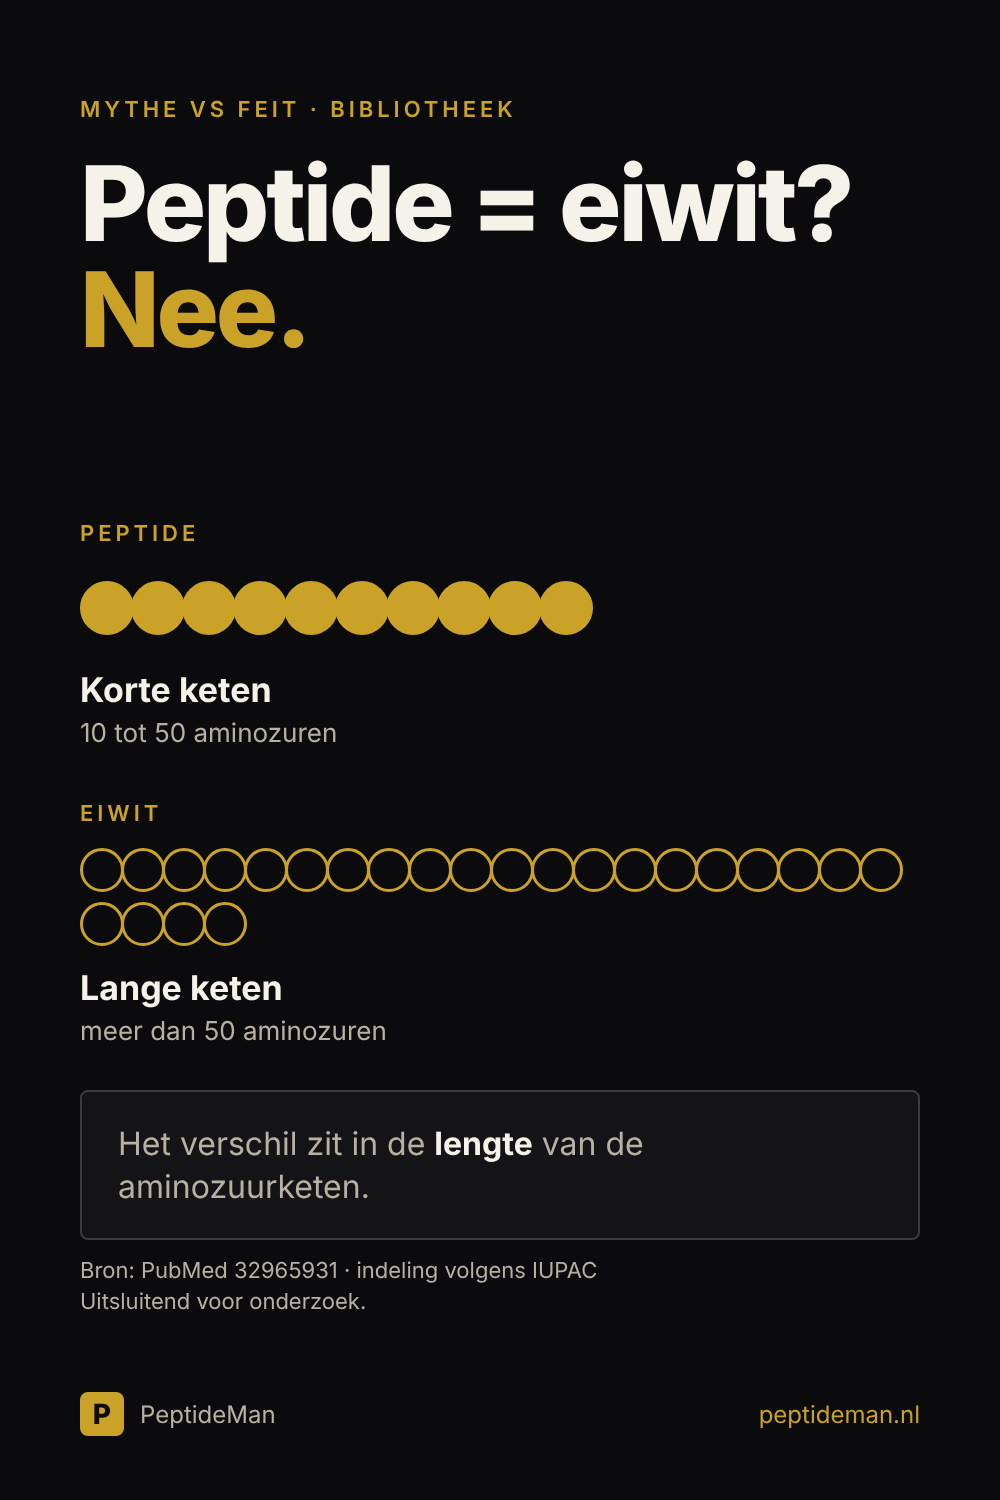
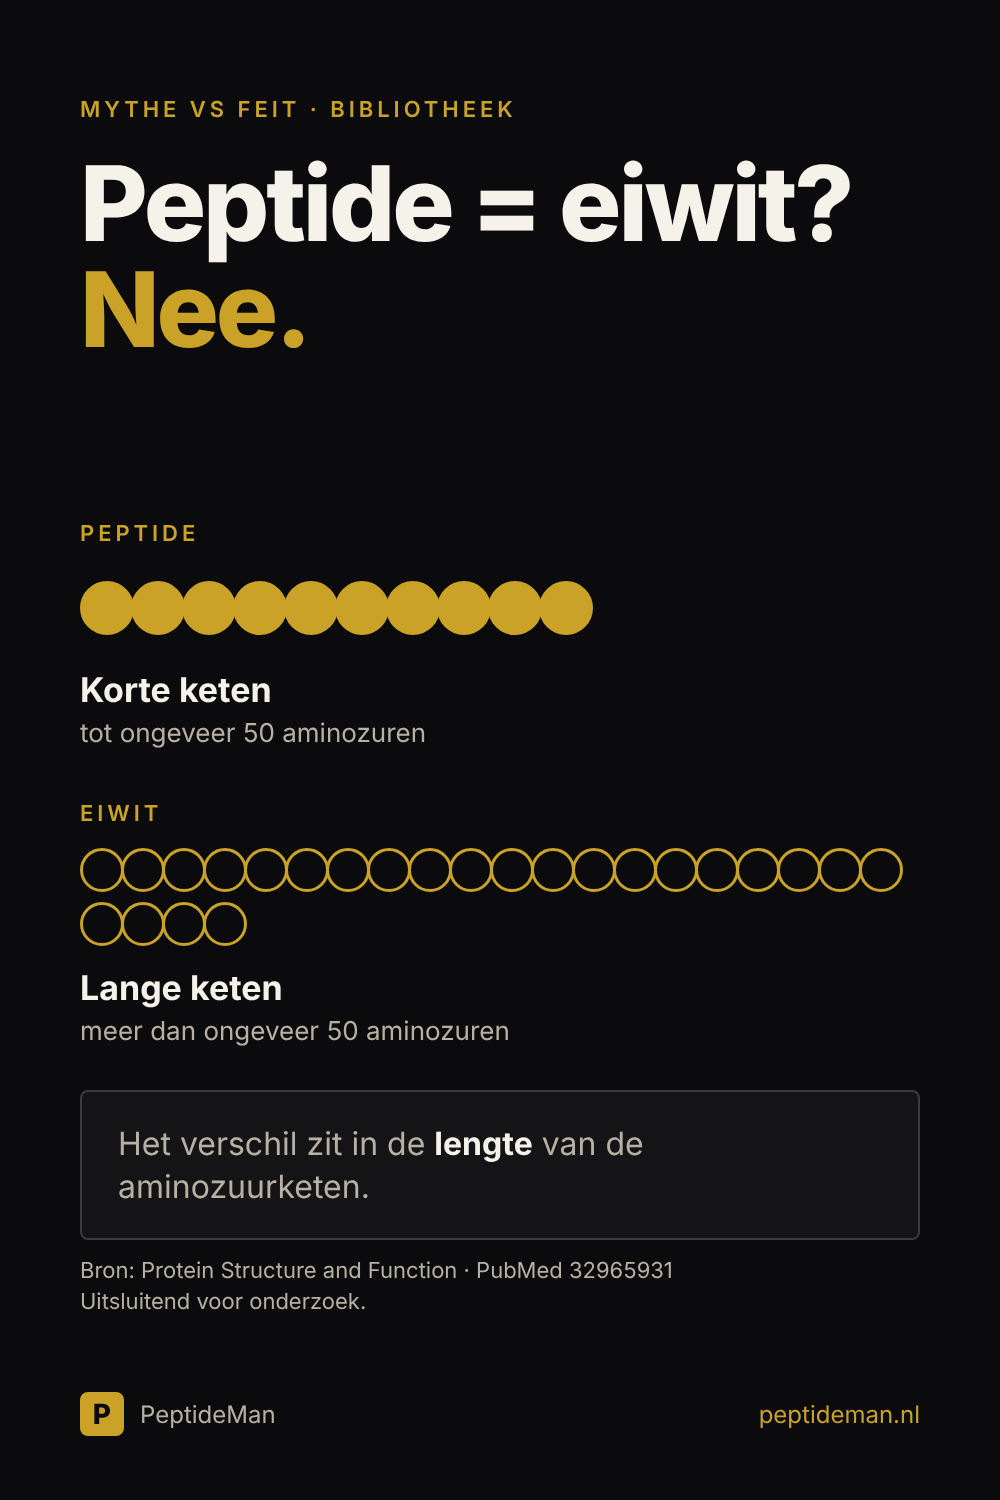
Weekplan w46: posts herzien na eerste toetsronde, beelden opnieuw gerenderd
Claude-Session: https://claude.ai/code/session_01X3HvVKDakskuMJBigugZac

diff --git a/posts/media/2026-11-10-weetje-insuline.html b/posts/media/2026-11-10-weetje-insuline.html
@@ -13,19 +13,18 @@ h1{position:absolute;top:410px;left:80px;right:80px;font-size:210px;line-height:
 .chain::before{content:"";position:absolute;left:30px;right:30px;top:50%;height:3px;background:var(--border)}
 .aa{position:relative;width:64px;height:64px;border-radius:50%;border:3px solid var(--gold);background:var(--bg)}
 .aa.f{background:var(--gold)}
-.big{position:absolute;top:1060px;left:80px;right:80px;background:var(--surface);border:2px solid var(--border);border-radius:8px;padding:30px 36px;font-size:34px;line-height:1.35}
+.big{position:absolute;top:1030px;left:80px;right:80px;background:var(--surface);border:2px solid var(--border);border-radius:8px;padding:30px 36px;font-size:34px;line-height:1.35}
 .big b{color:var(--light)}
-.src{position:absolute;left:80px;right:80px;top:1285px;font-size:21px;line-height:1.4}
+.src{position:absolute;left:80px;right:80px;top:1290px;font-size:26px;line-height:1.4}
 .foot{position:absolute;left:80px;right:80px;bottom:64px;display:flex;align-items:center;gap:16px;font-size:24px}
 .logo{width:44px;height:44px;border-radius:8px;background:var(--gold);color:var(--bg);font-weight:800;font-size:28px;display:flex;align-items:center;justify-content:center}
 .foot .url{margin-left:auto;color:var(--gold)}
 </style></head><body>
 <div class="tag">Weetje · Bibliotheek</div>
-<div class="q">Wat was het eerste eiwit waarvan de volgorde werd opgehelderd?</div>
+<div class="q">Wat was het eerste eiwit met een bekende aminozuurvolgorde?</div>
 <h1>Insuline</h1>
-<div class="lead">Fred Sanger leidde de aminozuur&shy;volgorde af.</div>
-<div class="chain"><div class="aa"></div><div class="aa"></div><div class="aa"></div><div class="aa"></div><div class="aa"></div><div class="aa"></div><div class="aa"></div><div class="aa f"></div></div>
-<div class="big">Hij ontwikkelde nieuwe technieken en deed dit uit meerdere hydrolysaten. In <b>1958</b> kreeg hij zijn eerste Nobelprijs voor Scheikunde.</div>
-<div class="src">Bron: Flier JS, Kahn CR. Mol Metab 2021 · PubMed 33610859 · overzichtsartikel<br>Uitsluitend voor onderzoek.</div>
+<div class="lead">Fred Sanger leidde de volgorde af.</div>
+<div class="big">Voor dit werk kreeg Sanger in <b>1958</b> zijn eerste Nobelprijs voor Scheikunde.</div>
+<div class="src">Bron: Flier &amp; Kahn, Mol Metab 2021 · PubMed 33610859<br>Uitsluitend voor onderzoek.</div>
 <div class="foot"><div class="logo">P</div>PeptideMan<span class="url">peptideman.nl</span></div>
 </body></html>

diff --git a/posts/media/2026-11-12-labwerk-lcms.html b/posts/media/2026-11-12-labwerk-lcms.html
@@ -25,14 +25,14 @@ h1{position:absolute;top:150px;left:80px;right:80px;font-size:150px;line-height:
 </style></head><body>
 <div class="tag">Labwerk · Bibliotheek</div>
 <h1>LC-MS</h1>
-<div class="lead">De <span>massa</span> bevestigt de identiteit</div>
+<div class="lead">De <span>massa</span> controleert de identiteit</div>
 <div class="cards">
 <div class="card gold"><div class="k">LC-MS</div><div class="n">Massa</div><div class="d">Welke stof is het?</div>
 <svg viewBox="0 0 300 110" preserveAspectRatio="none"><g stroke="#C9A227" stroke-width="6" stroke-linecap="round"><line x1="30" y1="105" x2="30" y2="70"/><line x1="90" y1="105" x2="90" y2="55"/><line x1="150" y1="105" x2="150" y2="8"/><line x1="210" y1="105" x2="210" y2="60"/><line x1="270" y1="105" x2="270" y2="78"/></g></svg></div>
-<div class="card"><div class="k">HPLC</div><div class="n">Zuiver</div><div class="d">Hoeveel is het?</div>
+<div class="card"><div class="k">HPLC</div><div class="n">Zuiver?</div><div class="d">Wat zit er nog meer in?</div>
 <svg viewBox="0 0 300 110" preserveAspectRatio="none"><path d="M0 105 L60 105 Q80 105 90 95 Q100 105 120 105 L150 105 Q170 105 180 10 Q190 105 210 105 L300 105" fill="none" stroke="#B7B1A3" stroke-width="5" stroke-linejoin="round"/></svg></div>
 </div>
-<div class="big">Een methodehoofdstuk beschrijft <b>LC-MS</b> en <b>MALDI-TOF-MS</b> om identiteit en zuiverheid van synthetische peptiden te controleren.</div>
+<div class="big">Een methodehoofdstuk beschrijft <b>LC-MS</b> om synthetische peptiden te controleren.</div>
 <div class="src">Bron: Prabhala BK et al., Methods Mol Biol 2015;1348 · PubMed 26424265<br>Uitsluitend voor onderzoek.</div>
 <div class="foot"><div class="logo">P</div>PeptideMan<span class="url">peptideman.nl</span></div>
 </body></html>

diff --git a/posts/media/2026-11-11-mythe-peptide-eiwit.html b/posts/media/2026-11-11-mythe-peptide-eiwit.html
@@ -31,14 +31,14 @@ h1 span{color:var(--gold)}
 <div class="row r1">
 <div class="lab">Peptide</div>
 <div class="chain"><div class="aa f"></div><div class="aa f"></div><div class="aa f"></div><div class="aa f"></div><div class="aa f"></div><div class="aa f"></div><div class="aa f"></div><div class="aa f"></div><div class="aa f"></div><div class="aa f"></div></div>
-<div class="cap">Korte keten<small>10 tot 50 aminozuren</small></div>
+<div class="cap">Korte keten<small>tot ongeveer 50 aminozuren</small></div>
 </div>
 <div class="row r2">
 <div class="lab">Eiwit</div>
 <div class="chain long"><div class="aa"></div><div class="aa"></div><div class="aa"></div><div class="aa"></div><div class="aa"></div><div class="aa"></div><div class="aa"></div><div class="aa"></div><div class="aa"></div><div class="aa"></div><div class="aa"></div><div class="aa"></div><div class="aa"></div><div class="aa"></div><div class="aa"></div><div class="aa"></div><div class="aa"></div><div class="aa"></div><div class="aa"></div><div class="aa"></div><div class="aa"></div><div class="aa"></div><div class="aa"></div><div class="aa"></div></div>
-<div class="cap">Lange keten<small>meer dan 50 aminozuren</small></div>
+<div class="cap">Lange keten<small>meer dan ongeveer 50 aminozuren</small></div>
 </div>
 <div class="big">Het verschil zit in de <b>lengte</b> van de aminozuurketen.</div>
-<div class="src">Bron: PubMed 32965931 · indeling volgens IUPAC<br>Uitsluitend voor onderzoek.</div>
+<div class="src">Bron: Protein Structure and Function · PubMed 32965931<br>Uitsluitend voor onderzoek.</div>
 <div class="foot"><div class="logo">P</div>PeptideMan<span class="url">peptideman.nl</span></div>
 </body></html>

diff --git a/posts/media/2026-11-09-labwerk-hplc.html b/posts/media/2026-11-09-labwerk-hplc.html
@@ -21,7 +21,7 @@ h1 span{color:var(--gold)}
 </style></head><body>
 <div class="tag">Labwerk · Bibliotheek</div>
 <h1>Hoe werkt een <span>HPLC-test?</span></h1>
-<div class="lead">Elke stof krijgt een <span>eigen piek</span></div>
+<div class="lead">Stoffen komen als <span>aparte pieken</span> uit de kolom</div>
 <div class="chart">
 <svg viewBox="0 0 836 496" xmlns="http://www.w3.org/2000/svg" font-family="system-ui,-apple-system,'Segoe UI',Roboto,Helvetica,Arial,sans-serif">
 <line x1="50" y1="400" x2="800" y2="400" stroke="#3A3A42" stroke-width="3"/>
@@ -30,11 +30,11 @@ h1 span{color:var(--gold)}
 <path d="M430 400 C470 400 480 110 520 110 C560 110 570 400 610 400 Z" fill="#C9A227" fill-opacity=".25"/>
 <path d="M430 400 C470 400 480 110 520 110 C560 110 570 400 610 400" fill="none" stroke="#C9A227" stroke-width="6" stroke-linejoin="round"/>
 <text x="520" y="78" text-anchor="middle" font-size="30" font-weight="700" fill="#C9A227">hoofdpiek</text>
-<text x="335" y="322" text-anchor="middle" font-size="24" fill="#B7B1A3">andere</text>
+<text x="335" y="322" text-anchor="middle" font-size="24" fill="#B7B1A3">andere stoffen</text>
 <text x="800" y="450" text-anchor="end" font-size="26" fill="#B7B1A3">tijd →</text>
 </svg>
 </div>
-<div class="big">Reversed-phase HPLC: <b>snelle techniek</b> om de zuiverheid van synthetische peptiden te beoordelen.</div>
+<div class="big">De <b>grote piek</b> is het peptide. Kleine pieken zijn <b>andere stoffen</b>.</div>
 <div class="src">Bron: Moore GJ, Life Sci 1982;30(12) · PubMed 7070207<br>Uitsluitend voor onderzoek.</div>
 <div class="foot"><div class="logo">P</div>PeptideMan<span class="url">peptideman.nl</span></div>
 </body></html>

diff --git a/posts/media/2026-11-14-labwerk-99-procent.html b/posts/media/2026-11-14-labwerk-99-procent.html
@@ -12,7 +12,7 @@ h1{position:absolute;top:670px;left:90px;right:90px;font-size:230px;line-height:
 .lead span{color:var(--gold)}
 .big{position:absolute;top:1230px;left:90px;right:90px;background:var(--surface);border:2px solid var(--border);border-radius:8px;padding:48px 52px;font-size:48px;line-height:1.35}
 .big b{color:var(--light)}
-.src{position:absolute;left:90px;right:90px;top:1590px;font-size:30px;line-height:1.4}
+.src{position:absolute;left:90px;right:90px;top:1625px;font-size:28px;line-height:1.4}
 .foot{position:absolute;left:90px;right:90px;bottom:110px;display:flex;align-items:center;gap:20px;font-size:34px}
 .logo{width:64px;height:64px;border-radius:8px;background:var(--gold);color:var(--bg);font-weight:800;font-size:40px;display:flex;align-items:center;justify-content:center}
 .foot .url{margin-left:auto;color:var(--gold)}
@@ -21,7 +21,7 @@ h1{position:absolute;top:670px;left:90px;right:90px;font-size:230px;line-height:
 <div class="pct">99%</div>
 <h1>zuiver?</h1>
 <div class="lead"><span>Zo lees je</span> het rapport.</div>
-<div class="big">Het getal is een <b>piekoppervlak</b> in een HPLC-grafiek. Geen hoeveelheid peptide.</div>
-<div class="src">Bron: Preston GW, Phillips DH. Anal Bioanal Chem 2016;408(9) · PubMed 26879647<br>Uitsluitend voor onderzoek.</div>
+<div class="big">99% betekent: 99% van het gemeten signaal hoort bij de <b>hoofdstof</b>. Het zegt niet hoeveel er in het potje zit.</div>
+<div class="src">Bron: Preston &amp; Phillips, Anal Bioanal Chem 2016 · PubMed 26879647<br>Uitsluitend voor onderzoek.</div>
 <div class="foot"><div class="logo">P</div>PeptideMan<span class="url">peptideman.nl</span></div>
 </body></html>

diff --git a/posts/media/2026-11-15-weetje-klein-hormoon.html b/posts/media/2026-11-15-weetje-klein-hormoon.html
@@ -22,9 +22,9 @@ h1{position:absolute;top:840px;left:90px;right:90px;font-size:158px;line-height:
 <div class="tag">Weetje · Bibliotheek</div>
 <div class="pct">9</div>
 <h1>aminozuren</h1>
-<div class="lead"><span>Dit hormoon</span> is maar zo lang.</div>
+<div class="lead"><span>Dit hormoon</span> past in 9 letters.</div>
 <div class="chain"><div class="aa">C</div><div class="aa">Y</div><div class="aa">I</div><div class="aa">Q</div><div class="aa">N</div><div class="aa">C</div><div class="aa">P</div><div class="aa">L</div><div class="aa">G</div></div>
-<div class="big"><b>Oxytocine</b>: een nonapeptide met een zwavelbrug tussen aminozuur 1 en 6.</div>
+<div class="big"><b>Oxytocine</b>: elke letter is één aminozuur.</div>
 <div class="src">Bron: overzichtsartikel, Int J Mol Sci 2023 · PubMed 36768879<br>Uitsluitend voor onderzoek.</div>
 <div class="foot"><div class="logo">P</div>PeptideMan<span class="url">peptideman.nl</span></div>
 </body></html>

diff --git a/posts/media/2026-11-13-vraag-peptidesynthese.html b/posts/media/2026-11-13-vraag-peptidesynthese.html
@@ -28,7 +28,7 @@ h1 span{color:var(--gold)}
 <div class="aa">1</div><div class="aa">2</div><div class="aa">3</div><div class="aa">4</div><div class="aa n">5</div><div class="aa n">6</div>
 </div>
 <div class="cap">Aminozuur voor aminozuur, <span>op een hars.</span></div>
-<div class="big"><b>Vastefasesynthese:</b> de keten groeit stap voor stap aan een hars. Het peptide CRF van 41 aminozuren kostte ongeveer <b>80 werkuren</b>.</div>
+<div class="big"><b>Vastefasesynthese:</b> de keten groeit stap voor stap aan een hars. Elke koppelstap voegt <b>één aminozuur</b> toe.</div>
 <div class="src">Bron: Coin I. et al., Nat Protoc 2007;2(12) · PubMed 18079725 · methodeprotocol<br>Uitsluitend voor onderzoek.</div>
 <div class="foot"><div class="logo">P</div>PeptideMan<span class="url">peptideman.nl</span></div>
 </body></html>

diff --git a/posts/2026-11-09-labwerk-hplc.md b/posts/2026-11-09-labwerk-hplc.md
@@ -2,10 +2,10 @@ kanaal: Pinterest
 pijler: Labwerk
 pin-titel: Hoe werkt een HPLC-test?
 pin-link: https://peptideman.nl
-beeldtekst: Hoe werkt een HPLC-test? Elke stof krijgt een eigen piek.
+beeldtekst: Hoe werkt een HPLC-test? Stoffen komen als aparte pieken uit de kolom. De grote piek is het peptide. Kleine pieken zijn andere stoffen.
 
 caption: |
-  Hoe werkt een HPLC-test? Een peptidemonster gaat door een kolom en de stoffen komen op verschillende momenten uit, als pieken in een grafiek. Een artikel uit 1982 beschrijft reversed-phase HPLC als snelle, effectieve techniek om de zuiverheid van synthetische peptiden te beoordelen.
+  Hoe werkt een HPLC-test? Een peptidemonster gaat door een kolom en elke stof komt op een eigen moment uit, als piek in een grafiek. De grote piek is het peptide, de kleine pieken zijn andere stoffen.
 
   Soort bron: methodeartikel (1982), geen studie bij mensen.
 
@@ -18,3 +18,4 @@ bron: https://pubmed.ncbi.nlm.nih.gov/7070207/ (Moore GJ, Life Sci 1982;30(12). 
 beeld: posts/media/2026-11-09-labwerk-hplc.png
 beeld-url: open
 claimcheck: open
+soort-bron: methodeartikel (1982, Life Sci). Abstract: reversed-phase HPLC is een snelle en effectieve techniek om de zuiverheid van synthetische peptiden te beoordelen en om milligramhoeveelheden synthetische peptiden te zuiveren; voorbeelden zijn angiotensines en neurohypofysaire hormonen. Geen studie bij mensen.

diff --git a/posts/2026-11-13-vraag-peptidesynthese.md b/posts/2026-11-13-vraag-peptidesynthese.md
@@ -1,17 +1,17 @@
 kanaal: Pinterest
 pijler: Vraag van de dag
-pin-titel: Hoe wordt een peptide in het lab gemaakt?
+pin-titel: Hoe wordt een peptide gemaakt in het lab?
 pin-link: https://peptideman.nl
-beeldtekst: Aminozuur voor aminozuur, op een hars.
+beeldtekst: Hoe wordt een peptide gemaakt? Aminozuur voor aminozuur, op een hars.
 
 caption: |
-  Vastefasesynthese is de methode waarmee een peptide in het lab wordt gemaakt: aminozuren worden één voor één aan een hars gekoppeld, zodat de keten stap voor stap groeit. Een protocol (2007) beschrijft de Fmoc/tBu-methode. Klonterende ketens zijn de hoofdoorzaak van mislukking.
+  Hoe wordt een peptide gemaakt? In het lab bouwen onderzoekers de keten aminozuur voor aminozuur op een hars, de zogenoemde vastefasesynthese.
 
-  Soort bron: methodeprotocol, geen studie bij mensen of dieren.
+  Soort bron: methodeprotocol (2007), geen studie bij mensen of dieren.
 
   Uitsluitend voor onderzoek.
 
-hashtags: #peptidesynthese #SPPS #peptideonderzoek #labwerk #PeptideMan
+hashtags: #peptidesynthese #peptideonderzoek #labwerk #PeptideMan
 
 bron: https://pubmed.ncbi.nlm.nih.gov/18079725/ (Coin I, Beyermann M, Bienert M. Nat Protoc 2007;2(12):3247-56. "Solid-phase peptide synthesis: from standard procedures to the synthesis of difficult sequences")
 

diff --git a/posts/2026-11-10-weetje-insuline.md b/posts/2026-11-10-weetje-insuline.md
@@ -1,17 +1,17 @@
 kanaal: Pinterest
 pijler: Weetje
-pin-titel: Wat was het eerste eiwit waarvan de volgorde werd opgehelderd?
+pin-titel: Wat was het eerste eiwit met een bekende aminozuurvolgorde?
 pin-link: https://peptideman.nl
-beeldtekst: Insuline. Het eerste eiwit met bekende aminozuurvolgorde.
+beeldtekst: Insuline. Fred Sanger leidde de volgorde af en kreeg in 1958 zijn eerste Nobelprijs voor Scheikunde.
 
 caption: |
-  Het eerste eiwit waarvan de volgorde werd opgehelderd was insuline. Een overzichtsartikel uit 2021 beschrijft hoe Fred Sanger nieuwe technieken ontwikkelde en de volgorde afleidde uit meerdere hydrolysaten. In 1958 kreeg hij daarvoor zijn eerste Nobelprijs.
+  Insuline was het eerste eiwit waarvan de aminozuurvolgorde bekend werd. Fred Sanger ontcijferde die en kreeg daarvoor in 1958 zijn eerste Nobelprijs.
 
   Soort bron: overzichtsartikel (geschiedenis), geen studie bij mensen.
 
   Uitsluitend voor onderzoek.
 
-hashtags: #insuline #peptideonderzoek #Sanger #aminozuren #PeptideMan
+hashtags: #insuline #peptideonderzoek #biochemie #aminozuren #PeptideMan
 
 bron: https://pubmed.ncbi.nlm.nih.gov/33610859/ (Flier JS, Kahn CR. Mol Metab 2021;52:101194. "Insulin: A pacesetter for the shape of modern biomedical science and the Nobel Prize")
 

diff --git a/posts/2026-11-12-labwerk-lcms.md b/posts/2026-11-12-labwerk-lcms.md
@@ -1,11 +1,11 @@
 kanaal: Pinterest
 pijler: Labwerk
-pin-titel: Wat laat LC-MS zien dat HPLC niet laat zien?
+pin-titel: Wat is LC-MS en wat meet het?
 pin-link: https://peptideman.nl
-beeldtekst: LC-MS meet de massa. HPLC meet de zuiverheid.
+beeldtekst: LC-MS. De massa controleert de identiteit. HPLC: hoe zuiver is het? Wat zit er nog meer in?
 
 caption: |
-  LC-MS laat de massa van een peptide zien, en dat bevestigt de identiteit. HPLC laat zien hoeveel er naast de hoofdstof in het monster zit. Een methodehoofdstuk (2015) beschrijft LC-MS en MALDI-TOF-MS om identiteit en zuiverheid van synthetische peptiden te controleren.
+  Wat is LC-MS? Deze techniek meet de massa van een peptide; daarmee controleer je of het de juiste stof is. HPLC laat zien wat er nog meer in het monster zit. Een methodehoofdstuk (2015) beschrijft LC-MS voor synthetische peptiden.
 
   Soort bron: methodehoofdstuk, geen studie bij mensen.
 

diff --git a/posts/2026-11-11-mythe-peptide-eiwit.md b/posts/2026-11-11-mythe-peptide-eiwit.md
@@ -2,10 +2,10 @@ kanaal: Pinterest
 pijler: Mythe vs Feit
 pin-titel: Is een peptide hetzelfde als een eiwit?
 pin-link: https://peptideman.nl
-beeldtekst: Mythe: peptide = eiwit. Feit: het verschil zit in de lengte van de aminozuurketen.
+beeldtekst: Peptide = eiwit? Nee. Het verschil zit in de lengte van de aminozuurketen.
 
 caption: |
-  Is een peptide hetzelfde als een eiwit? Nee. Het verschil zit in de lengte van de aminozuurketen. Volgens de IUPAC-indeling in een PubMed-bron heten ketens van 10 tot 20 aminozuren oligopeptiden, van 20 tot 50 polypeptiden en boven 50 aminozuren worden ze doorgaans eiwitten genoemd.
+  Is een peptide hetzelfde als een eiwit? Nee. Het verschil zit in de lengte van de aminozuurketen: korte ketens heten peptiden, lange ketens eiwitten. De grens ligt grofweg rond 50 aminozuren en is niet scherp.
 
   Soort bron: beschrijvende indeling, geen studie bij mensen of dieren.
 
